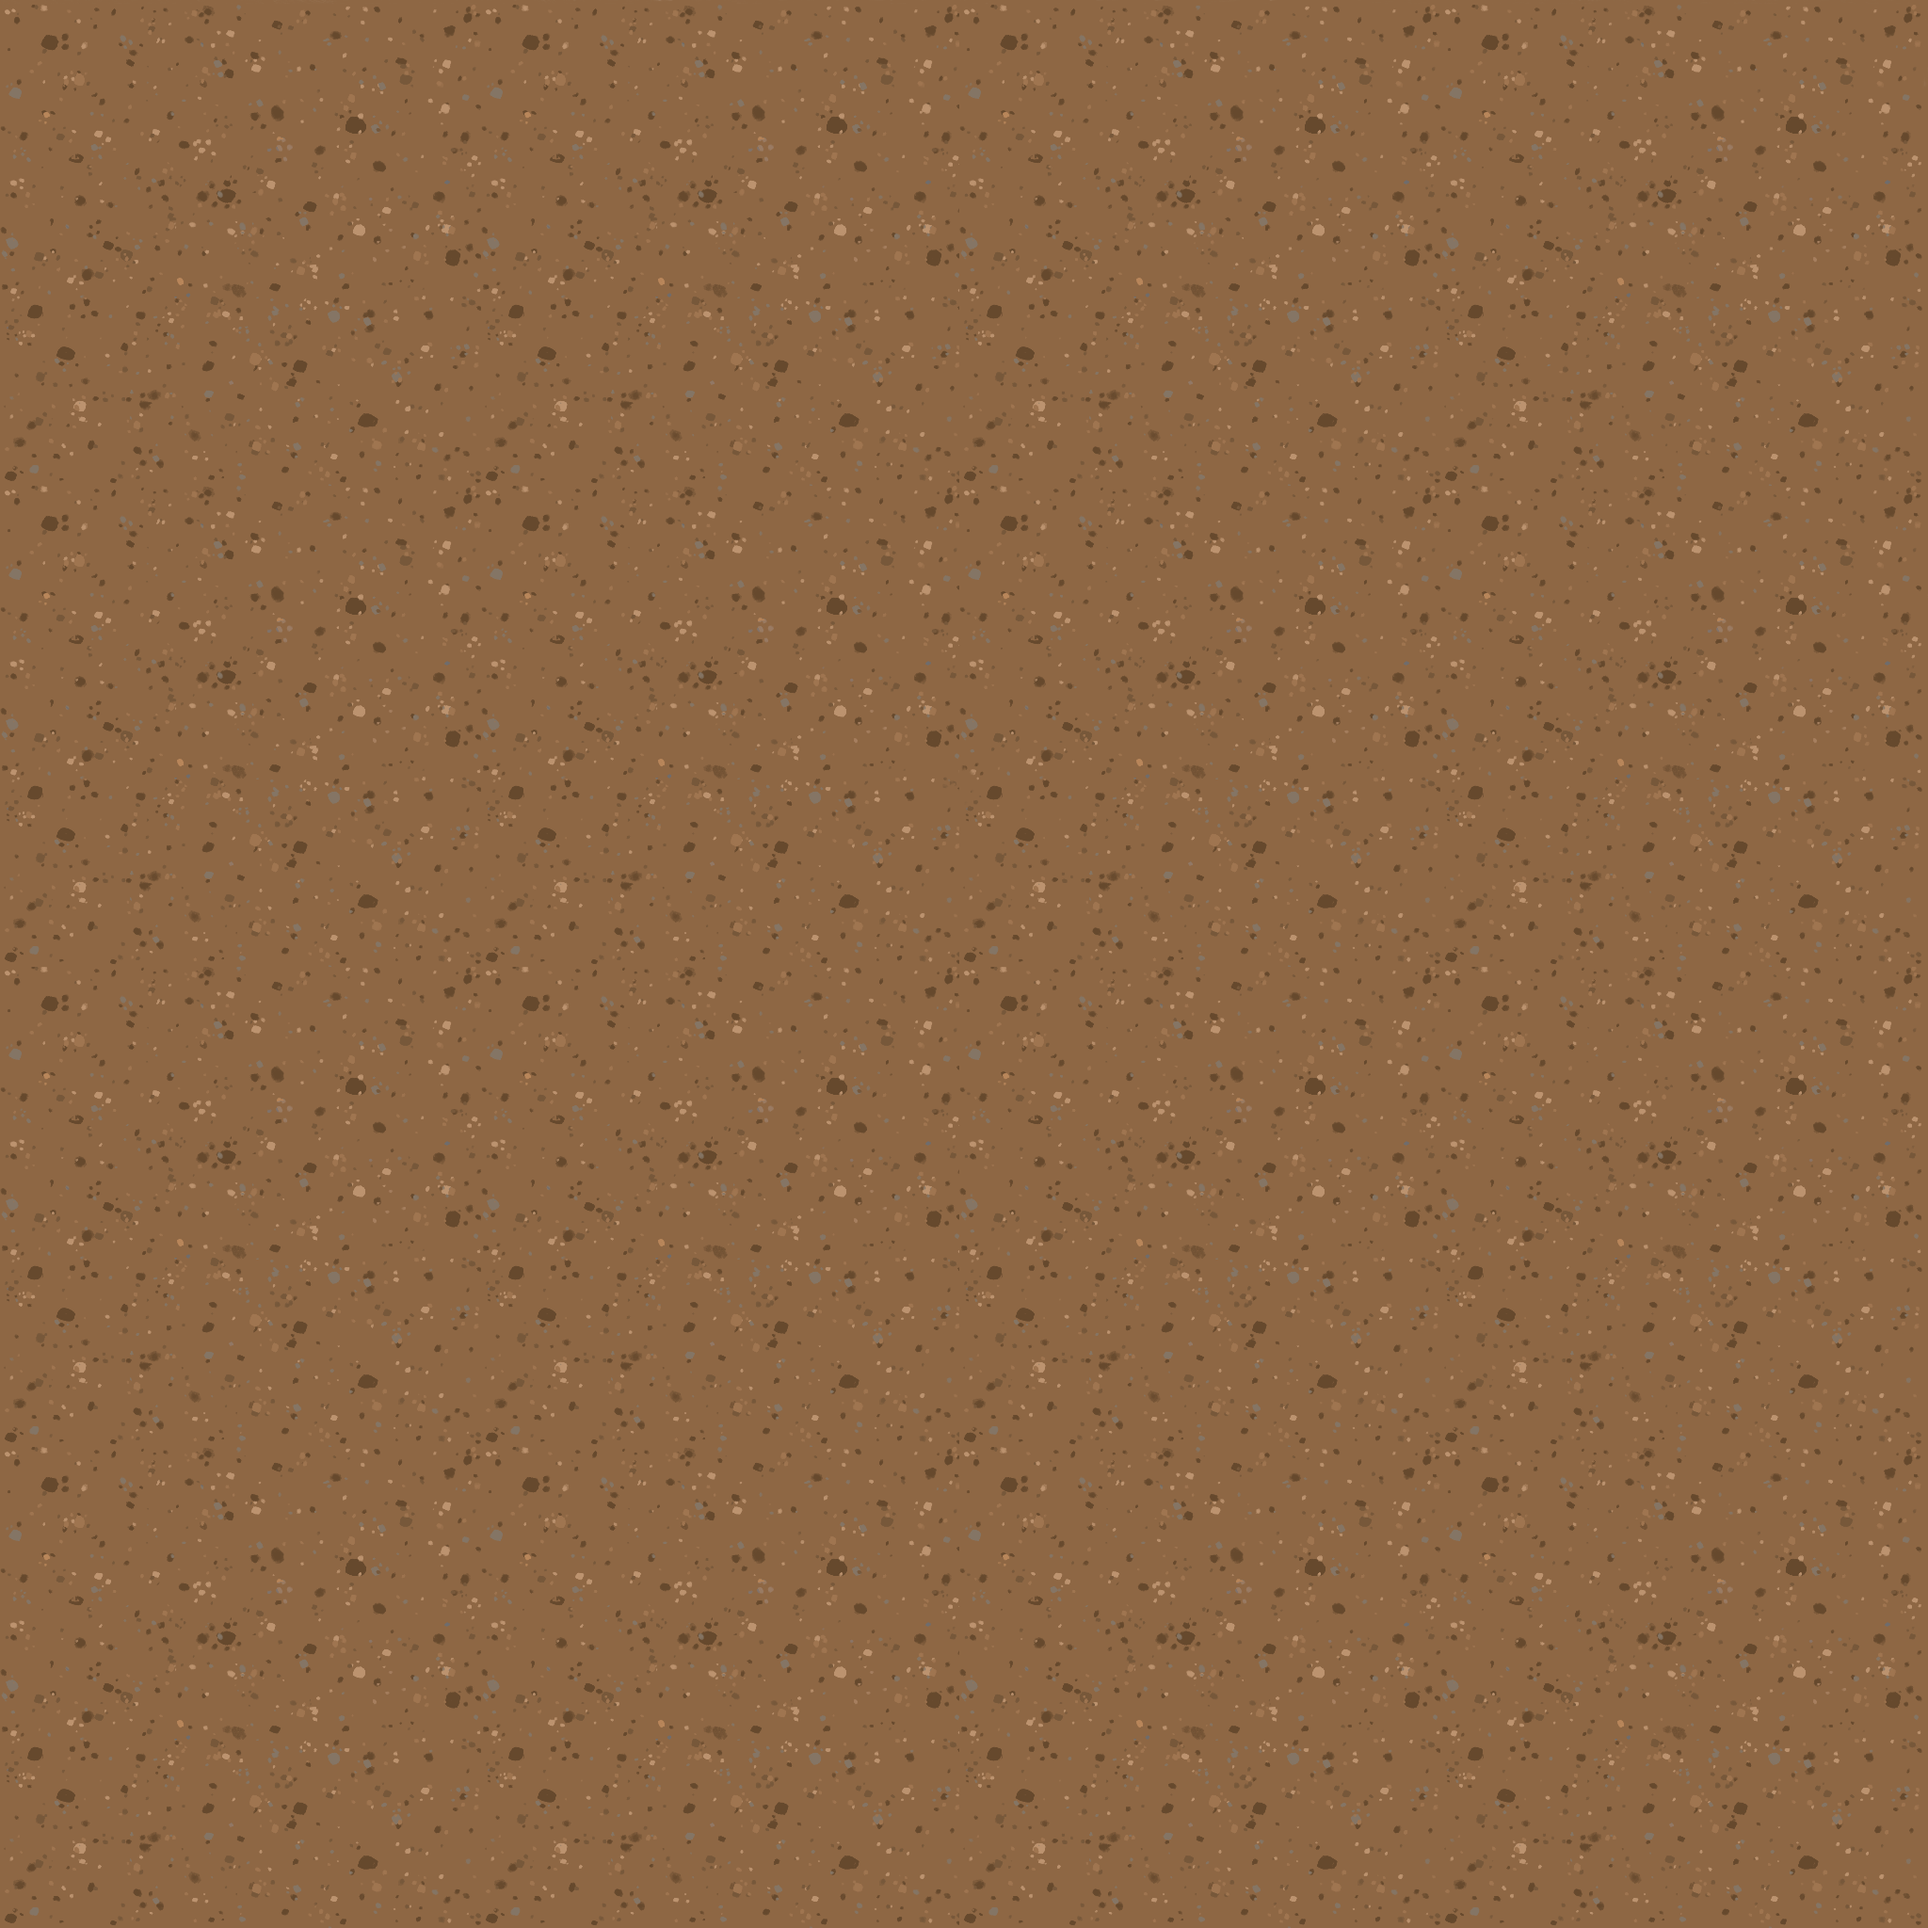
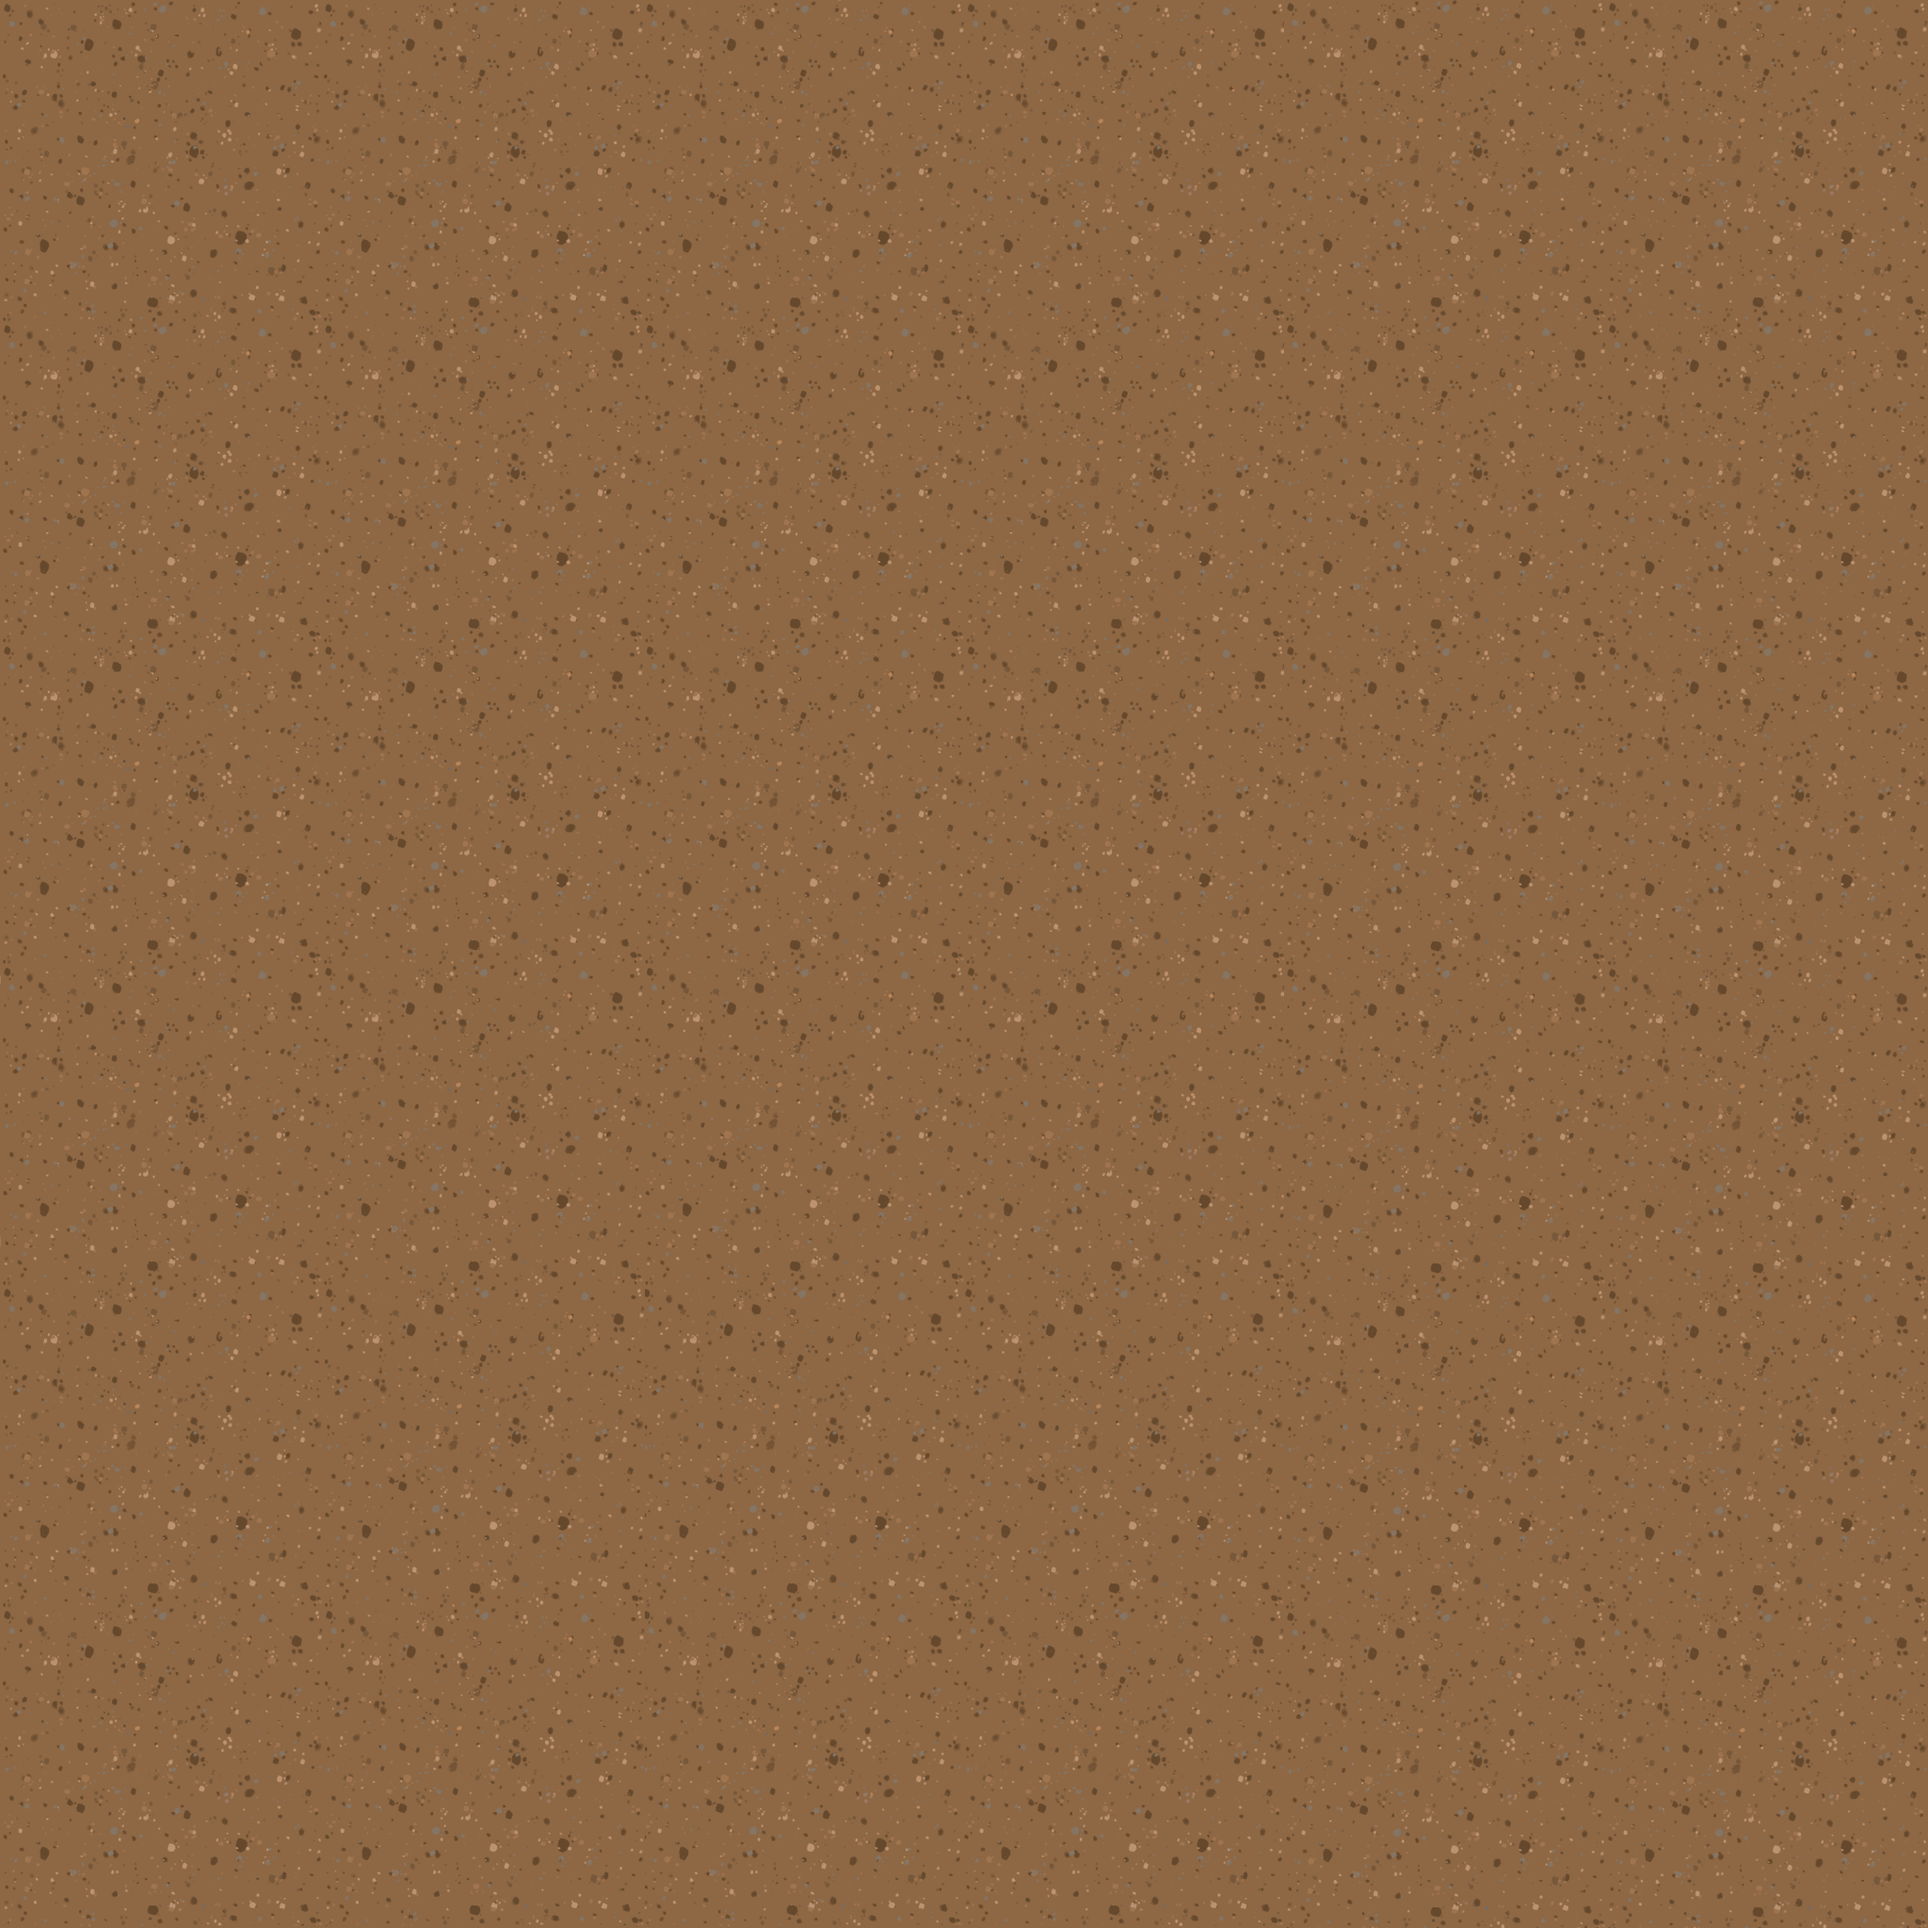
added new barriers and fixed the sorting

diff --git a/src/sketch.js b/src/sketch.js
@@ -211,7 +211,7 @@ const changeSelectableCategory = (object) => {
 //Brushs
 var grassBrushImg = new Image();
 grassBrushImg.objectCaching = false;
-grassBrushImg.src = '/assets/tiles/grass03.png';
+grassBrushImg.src = '/assets/tiles/grass04.png';
 grassBrushImg.alt = 'grassBrush';
 var grassPatternBrush = new fabric.PatternBrush(canvas);
 grassPatternBrush.source = grassBrushImg;
@@ -444,6 +444,28 @@ function dropElement(e) {
     group.name = 'cityobjectGroup';
     canvas.add(group);
     save();
+  } else if(img.alt ='barrier') {
+    let circle = createNewCircle(img);
+    circle.visible = false;
+    let group = new fabric.Group([circle,img],
+        {
+          originX: 'center',
+          originY: 'center',
+          left: canvas.getPointer(e).x,
+          top: canvas.getPointer(e).y,
+          // snappedTo: false,
+          // snapID: null,
+
+        });
+    group.setControlsVisibility({
+      mb: false,
+      ml: false,
+      mr: false,
+      mt: false,
+    });
+    group.name = 'barrierGroup';
+    canvas.add(group);
+    save();
   } else if(img.alt === 'other'){
     let circle = createNewCircle(img);
     circle.visible = false;
@@ -472,7 +494,8 @@ function dropElement(e) {
   // let listItem = document.createElement('li');
   // listItem.innerText = img.alt;
   // placesList.appendChild(listItem);
-
+  canvas.renderAll();
+  sortingAlgorithm();
 }
 
 
@@ -661,6 +684,11 @@ let sortingAlgorithm = () => {
       }
     } else if(canvas.item(i).name === 'houseGroup'){
       while(i>0 && canvas.item(i-1).id === 'numberedCircle'){
+        canvas.moveTo(canvas.item(i), i-1)
+        i = i-1;
+      }
+    } else if(canvas.item(i).name === 'barrierGroup'){
+      while(i>0 && canvas.item(i-1).name === 'houseGroup'){
         canvas.moveTo(canvas.item(i), i-1)
         i = i-1;
       }
@@ -924,7 +952,31 @@ var imgArrayOther = [
   },
   {
     img: '/assets/others/tent4.png', id: "ele22", alt: 'other', class:'img', draggable: "true" ,ondragstart: "dragElement(event)"
+  },
+  {
+    img: '/assets/others/mosaic.png', id: "ele23", alt: 'other', class:'img', draggable: "true" ,ondragstart: "dragElement(event)"
   }
+]
+var imgArrayBarriers = [
+  {
+    img: '/assets/barriers/wood_barrier_post.png', id: "ele1", alt: 'barrier', class:'img', draggable: "true" ,ondragstart: "dragElement(event)"
+  },
+  {
+    img: '/assets/barriers/wood_barrier_one.png', id: "ele2", alt: 'barrier', class:'img', draggable: "true" ,ondragstart: "dragElement(event)"
+  },
+  {
+    img: '/assets/barriers/wood_barrier_three.png', id: "ele3", alt: 'barrier', class:'img', draggable: "true" ,ondragstart: "dragElement(event)"
+  },
+  {
+    img: '/assets/barriers/stone_barrier_post.png', id: "ele4", alt: 'barrier', class:'img', draggable: "true" ,ondragstart: "dragElement(event)"
+  },
+  {
+    img: '/assets/barriers/stone_barrier_one.png', id: "ele5", alt: 'barrier', class:'img', draggable: "true" ,ondragstart: "dragElement(event)"
+  },
+  {
+    img: '/assets/barriers/stone_barrier_three.png', id: "ele6", alt: 'barrier', class:'img', draggable: "true" ,ondragstart: "dragElement(event)"
+  }
+
 
 
 ]
@@ -954,6 +1006,12 @@ let generateImage = (obj) => {
     for(var i = 0; i < imgArrayOther.length; i++){
       var imageElement = '<img src="#SRC", alt="#ALT", id="#ID", class="#CLASS", draggable="#DRAGGABLE", ondragstart="#ONDRAGSTART" />';
       htmlOutput += imageElement.replace('#SRC', imgArrayOther[i].img).replace('#ALT', imgArrayOther[i].alt).replace('#ID', imgArrayOther[i].id).replace('#CLASS', imgArrayOther[i].class).replace('#DRAGGABLE', imgArrayOther[i].draggable).replace('#ONDRAGSTART', imgArrayOther[i].ondragstart);
+    }
+    div.innerHTML = htmlOutput;
+  } else if(obj === selectedObject.barriers){
+    for(var i = 0; i < imgArrayBarriers.length; i++){
+      var imageElement = '<img src="#SRC", alt="#ALT", id="#ID", class="#CLASS", draggable="#DRAGGABLE", ondragstart="#ONDRAGSTART" />';
+      htmlOutput += imageElement.replace('#SRC', imgArrayBarriers[i].img).replace('#ALT', imgArrayBarriers[i].alt).replace('#ID', imgArrayBarriers[i].id).replace('#CLASS', imgArrayBarriers[i].class).replace('#DRAGGABLE', imgArrayBarriers[i].draggable).replace('#ONDRAGSTART', imgArrayBarriers[i].ondragstart);
     }
     div.innerHTML = htmlOutput;
   }
